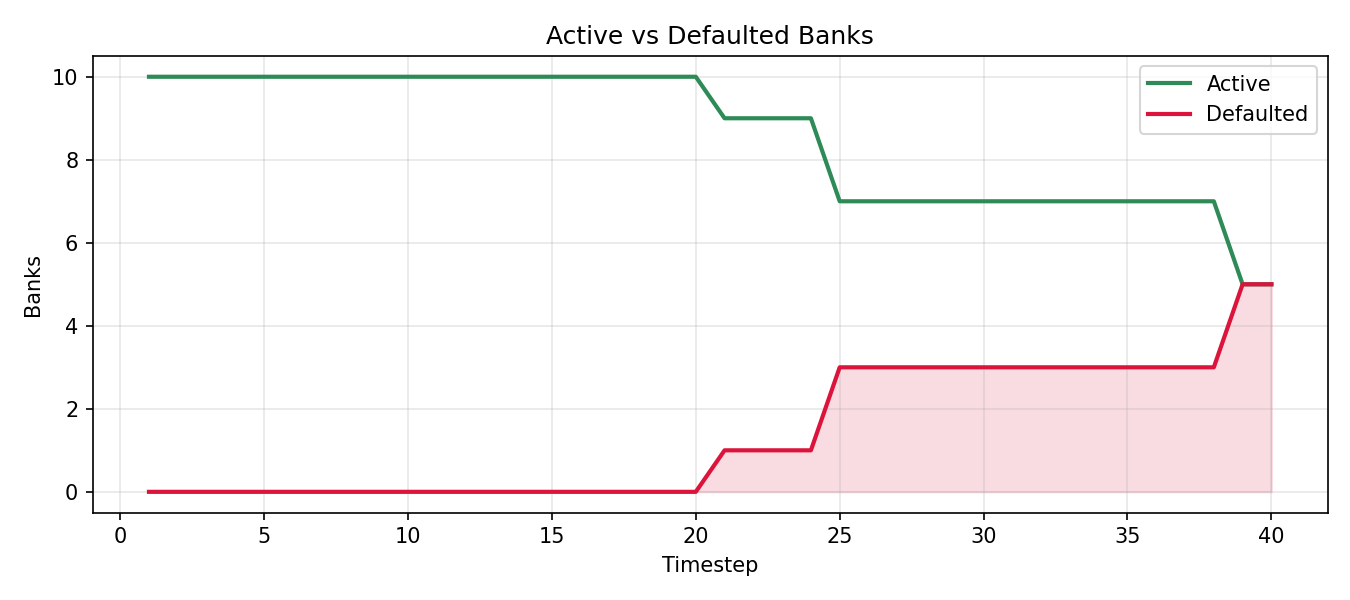
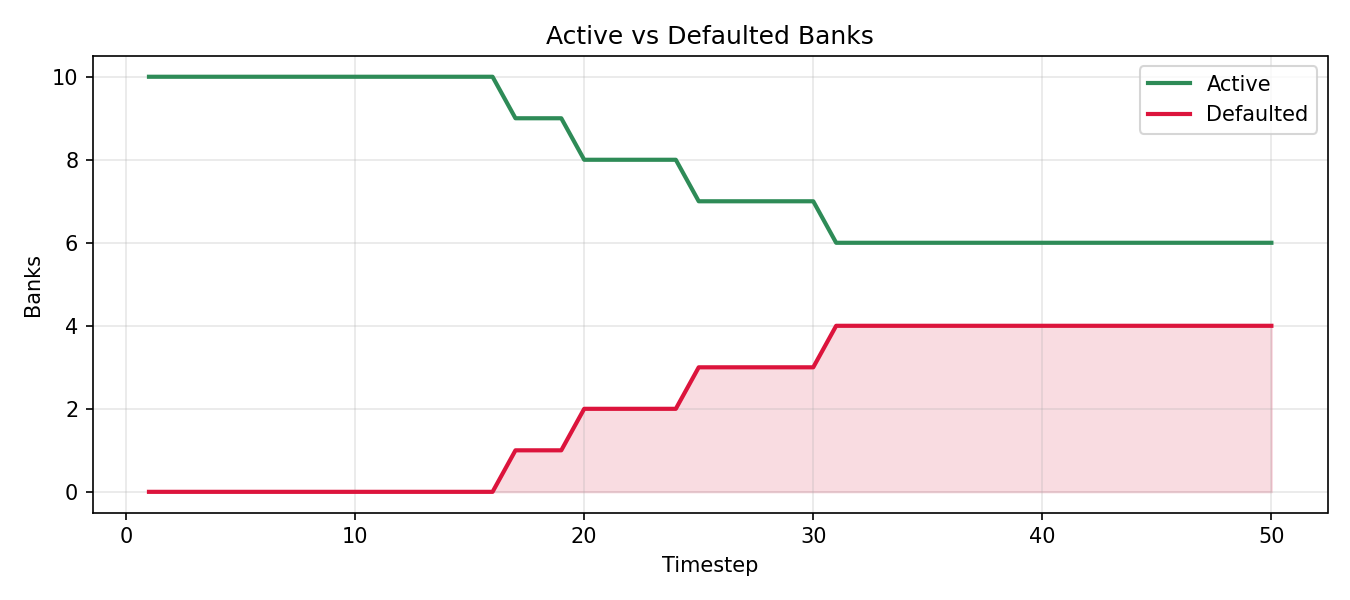
asdf

diff --git a/model/run_simulation.py b/model/run_simulation.py
@@ -30,7 +30,7 @@ def main():
         "n_banks": 10,
         "network_type": "erdos_renyi",
         "er_prob": 0.35,
-        "steps": 40,
+        "steps": 50,
 
         # bank initial state ranges
         "init_liquidity_lo": 50,
@@ -57,7 +57,7 @@ def main():
         "vol_shock_step": 15,          # volatility spike at step 15
 
         # exogenous shock
-        "shock_step": 12,
+        "shock_step": 10,
         "shock_intensity": 0.5,
 
         "seed": 99,
